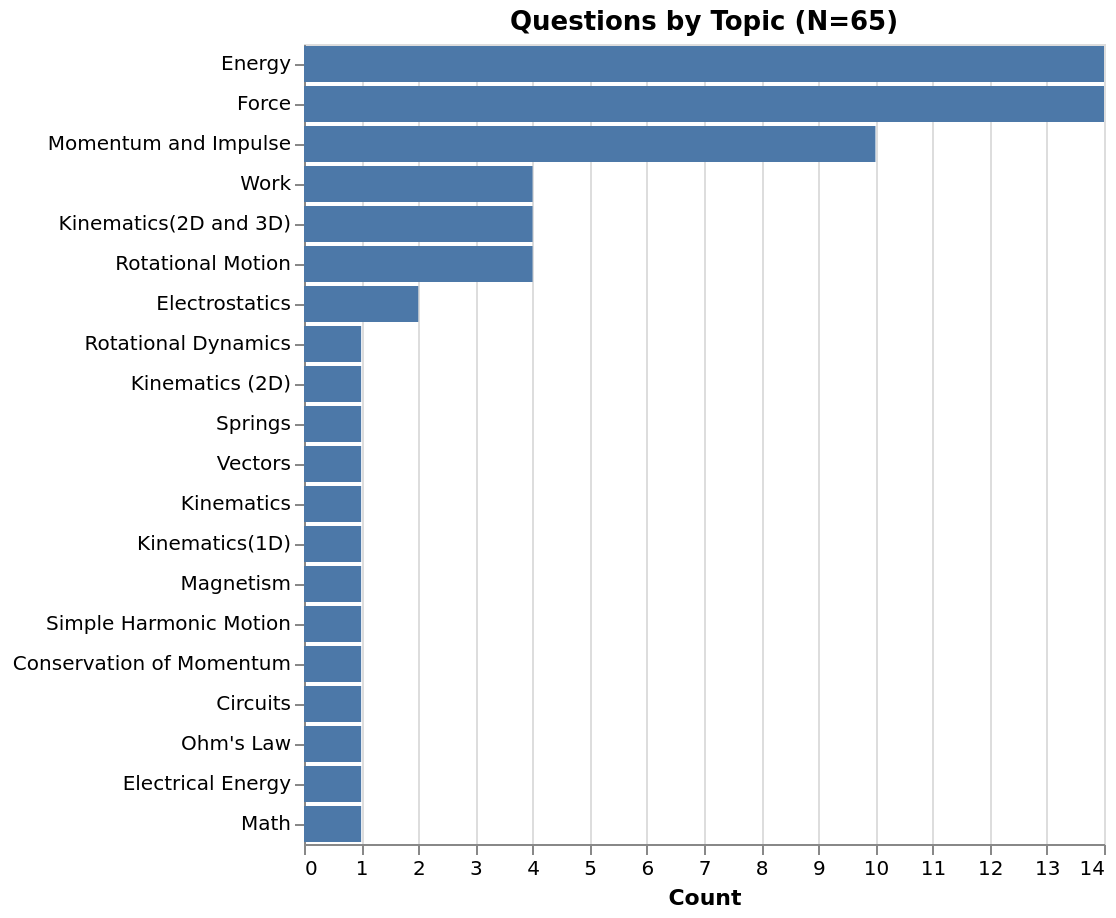
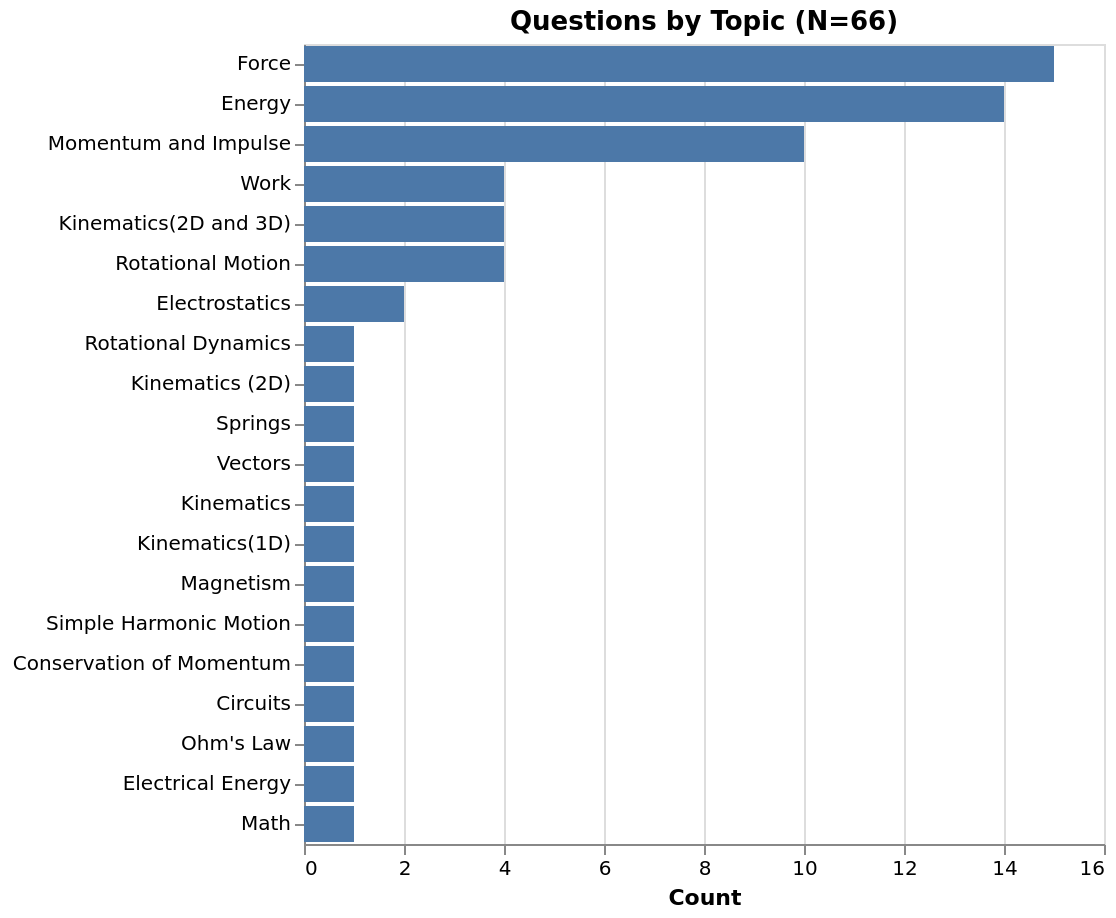
Update TOC via GH Action

diff --git a/content/index.md b/content/index.md
@@ -1,0 +1,71 @@
+# Question Index 
+ 
+ 
+ | Question | Public HTML | Public MD | Instructor MD | PL |
+| --------- | --------- | --------- | --------- | --------- |
+1 |  [Q 1](https://firas.moosvi.com/oer/physicsbank/content/content/public/002.Physics%20in%20General/Topic%20Outcome/test/test.html)| [Q 1](https://github.com/open-resources/physics_bank/blob/main/content/content/public/002.Physics%20in%20General/Topic%20Outcome/test/test.md) | [Q 1](https://github.com/open-resources/instructor_physics_bank/blob/main/output/content/instructor/002.Physics%20in%20General/Topic%20Outcome/test/test.md) | [TBD]() | 
+2 |  [Q 2](https://firas.moosvi.com/oer/physicsbank/content/content/public/008.Energy/Kinetic%20Energy/KE_testmass/KE_testmass.html)| [Q 2](https://github.com/open-resources/physics_bank/blob/main/content/content/public/008.Energy/Kinetic%20Energy/KE_testmass/KE_testmass.md) | [Q 2](https://github.com/open-resources/instructor_physics_bank/blob/main/output/content/instructor/008.Energy/Kinetic%20Energy/KE_testmass/KE_testmass.md) | [TBD]() | 
+3 |  [Q 3](https://firas.moosvi.com/oer/physicsbank/content/content/public/008.Energy/Kinetic%20Energy/KE_energy_momentum/KE_energy_momentum.html)| [Q 3](https://github.com/open-resources/physics_bank/blob/main/content/content/public/008.Energy/Kinetic%20Energy/KE_energy_momentum/KE_energy_momentum.md) | [Q 3](https://github.com/open-resources/instructor_physics_bank/blob/main/output/content/instructor/008.Energy/Kinetic%20Energy/KE_energy_momentum/KE_energy_momentum.md) | [TBD]() | 
+4 |  [Q 4](https://firas.moosvi.com/oer/physicsbank/content/content/public/008.Energy/Potential%20Energy/Collision%20of%20cart%20with%20spring/Collision%20of%20cart%20with%20spring.html)| [Q 4](https://github.com/open-resources/physics_bank/blob/main/content/content/public/008.Energy/Potential%20Energy/Collision%20of%20cart%20with%20spring/Collision%20of%20cart%20with%20spring.md) | [Q 4](https://github.com/open-resources/instructor_physics_bank/blob/main/output/content/instructor/008.Energy/Potential%20Energy/Collision%20of%20cart%20with%20spring/Collision%20of%20cart%20with%20spring.md) | [TBD]() | 
+5 |  [Q 5](https://firas.moosvi.com/oer/physicsbank/content/content/public/008.Energy/Topic%20Outcome/force_vs_position/force_vs_position.html)| [Q 5](https://github.com/open-resources/physics_bank/blob/main/content/content/public/008.Energy/Topic%20Outcome/force_vs_position/force_vs_position.md) | [Q 5](https://github.com/open-resources/instructor_physics_bank/blob/main/output/content/instructor/008.Energy/Topic%20Outcome/force_vs_position/force_vs_position.md) | [TBD]() | 
+6 |  [Q 6](https://firas.moosvi.com/oer/physicsbank/content/content/public/008.Energy/Topic%20Outcome/frictionless_track/frictionless_track.html)| [Q 6](https://github.com/open-resources/physics_bank/blob/main/content/content/public/008.Energy/Topic%20Outcome/frictionless_track/frictionless_track.md) | [Q 6](https://github.com/open-resources/instructor_physics_bank/blob/main/output/content/instructor/008.Energy/Topic%20Outcome/frictionless_track/frictionless_track.md) | [TBD]() | 
+7 |  [Q 7](https://firas.moosvi.com/oer/physicsbank/content/content/public/008.Energy/Topic%20Outcome/spring_oscillations/spring_oscillations.html)| [Q 7](https://github.com/open-resources/physics_bank/blob/main/content/content/public/008.Energy/Topic%20Outcome/spring_oscillations/spring_oscillations.md) | [Q 7](https://github.com/open-resources/instructor_physics_bank/blob/main/output/content/instructor/008.Energy/Topic%20Outcome/spring_oscillations/spring_oscillations.md) | [TBD]() | 
+8 |  [Q 8](https://firas.moosvi.com/oer/physicsbank/content/content/public/008.Energy/Conservation%20of%20Energy/dissipative_process/dissipative_process.html)| [Q 8](https://github.com/open-resources/physics_bank/blob/main/content/content/public/008.Energy/Conservation%20of%20Energy/dissipative_process/dissipative_process.md) | [Q 8](https://github.com/open-resources/instructor_physics_bank/blob/main/output/content/instructor/008.Energy/Conservation%20of%20Energy/dissipative_process/dissipative_process.md) | [TBD]() | 
+9 |  [Q 9](https://firas.moosvi.com/oer/physicsbank/content/content/public/008.Energy/Conservation%20of%20Energy/Energy%20lost%20to%20air%20friction/energy_lost_air_friction.html)| [Q 9](https://github.com/open-resources/physics_bank/blob/main/content/content/public/008.Energy/Conservation%20of%20Energy/Energy%20lost%20to%20air%20friction/energy_lost_air_friction.md) | [Q 9](https://github.com/open-resources/instructor_physics_bank/blob/main/output/content/instructor/008.Energy/Conservation%20of%20Energy/Energy%20lost%20to%20air%20friction/energy_lost_air_friction.md) | [TBD]() | 
+10 |  [Q 10](https://firas.moosvi.com/oer/physicsbank/content/content/public/008.Energy/Conservation%20of%20Energy/ball_race/2012Final_q3.html)| [Q 10](https://github.com/open-resources/physics_bank/blob/main/content/content/public/008.Energy/Conservation%20of%20Energy/ball_race/2012Final_q3.md) | [Q 10](https://github.com/open-resources/instructor_physics_bank/blob/main/output/content/instructor/008.Energy/Conservation%20of%20Energy/ball_race/2012Final_q3.md) | [TBD]() | 
+11 |  [Q 11](https://firas.moosvi.com/oer/physicsbank/content/content/public/008.Energy/Conservation%20of%20Energy/Physics%20of%20Roller%20Coasters/Physics%20of%20Roller%20Coasters.html)| [Q 11](https://github.com/open-resources/physics_bank/blob/main/content/content/public/008.Energy/Conservation%20of%20Energy/Physics%20of%20Roller%20Coasters/Physics%20of%20Roller%20Coasters.md) | [Q 11](https://github.com/open-resources/instructor_physics_bank/blob/main/output/content/instructor/008.Energy/Conservation%20of%20Energy/Physics%20of%20Roller%20Coasters/Physics%20of%20Roller%20Coasters.md) | [TBD]() | 
+12 |  [Q 12](https://firas.moosvi.com/oer/physicsbank/content/content/public/008.Energy/Conservation%20of%20Energy/Cut%20The%20Rope/Cut%20The%20Rope.html)| [Q 12](https://github.com/open-resources/physics_bank/blob/main/content/content/public/008.Energy/Conservation%20of%20Energy/Cut%20The%20Rope/Cut%20The%20Rope.md) | [Q 12](https://github.com/open-resources/instructor_physics_bank/blob/main/output/content/instructor/008.Energy/Conservation%20of%20Energy/Cut%20The%20Rope/Cut%20The%20Rope.md) | [TBD]() | 
+13 |  [Q 13](https://firas.moosvi.com/oer/physicsbank/content/content/public/008.Energy/Conservation%20of%20Energy/Falling%20bucket/Falling%20bucket.html)| [Q 13](https://github.com/open-resources/physics_bank/blob/main/content/content/public/008.Energy/Conservation%20of%20Energy/Falling%20bucket/Falling%20bucket.md) | [Q 13](https://github.com/open-resources/instructor_physics_bank/blob/main/output/content/instructor/008.Energy/Conservation%20of%20Energy/Falling%20bucket/Falling%20bucket.md) | [TBD]() | 
+14 |  [Q 14](https://firas.moosvi.com/oer/physicsbank/content/content/public/008.Energy/Exploding_Asteroid/Exploding_Asteroid.html)| [Q 14](https://github.com/open-resources/physics_bank/blob/main/content/content/public/008.Energy/Exploding_Asteroid/Exploding_Asteroid.md) | [Q 14](https://github.com/open-resources/instructor_physics_bank/blob/main/output/content/instructor/008.Energy/Exploding_Asteroid/Exploding_Asteroid.md) | [TBD]() | 
+15 |  [Q 15](https://firas.moosvi.com/oer/physicsbank/content/content/public/011.Rotational%20Dynamics/Topic%20Outcome/thread_on_spool/thread_on_spool.html)| [Q 15](https://github.com/open-resources/physics_bank/blob/main/content/content/public/011.Rotational%20Dynamics/Topic%20Outcome/thread_on_spool/thread_on_spool.md) | [Q 15](https://github.com/open-resources/instructor_physics_bank/blob/main/output/content/instructor/011.Rotational%20Dynamics/Topic%20Outcome/thread_on_spool/thread_on_spool.md) | [TBD]() | 
+16 |  [Q 16](https://firas.moosvi.com/oer/physicsbank/content/content/public/005.Force/Topic%20Outcome/Frictionless%20Air%20Track/Frictionless%20Air%20Track.html)| [Q 16](https://github.com/open-resources/physics_bank/blob/main/content/content/public/005.Force/Topic%20Outcome/Frictionless%20Air%20Track/Frictionless%20Air%20Track.md) | [Q 16](https://github.com/open-resources/instructor_physics_bank/blob/main/output/content/instructor/005.Force/Topic%20Outcome/Frictionless%20Air%20Track/Frictionless%20Air%20Track.md) | [TBD]() | 
+17 |  [Q 17](https://firas.moosvi.com/oer/physicsbank/content/content/public/009.Work/Work-Energy%20Theorem/work_frictionless_surface/work_frictionless_surface.html)| [Q 17](https://github.com/open-resources/physics_bank/blob/main/content/content/public/009.Work/Work-Energy%20Theorem/work_frictionless_surface/work_frictionless_surface.md) | [Q 17](https://github.com/open-resources/instructor_physics_bank/blob/main/output/content/instructor/009.Work/Work-Energy%20Theorem/work_frictionless_surface/work_frictionless_surface.md) | [TBD]() | 
+18 |  [Q 18](https://firas.moosvi.com/oer/physicsbank/content/content/public/009.Work/Power/Energy%20Expenditure/Energy%20Expenditure.html)| [Q 18](https://github.com/open-resources/physics_bank/blob/main/content/content/public/009.Work/Power/Energy%20Expenditure/Energy%20Expenditure.md) | [Q 18](https://github.com/open-resources/instructor_physics_bank/blob/main/output/content/instructor/009.Work/Power/Energy%20Expenditure/Energy%20Expenditure.md) | [TBD]() | 
+19 |  [Q 19](https://firas.moosvi.com/oer/physicsbank/content/content/public/009.Work/Work/force_and_displacement/force_and_displacement.html)| [Q 19](https://github.com/open-resources/physics_bank/blob/main/content/content/public/009.Work/Work/force_and_displacement/force_and_displacement.md) | [Q 19](https://github.com/open-resources/instructor_physics_bank/blob/main/output/content/instructor/009.Work/Work/force_and_displacement/force_and_displacement.md) | [TBD]() | 
+20 |  [Q 20](https://firas.moosvi.com/oer/physicsbank/content/content/public/005.Kinematics%282D%20and%203D%29/Relative%20Motion/apples_in_truck/apples_in_truck.html)| [Q 20](https://github.com/open-resources/physics_bank/blob/main/content/content/public/005.Kinematics%282D%20and%203D%29/Relative%20Motion/apples_in_truck/apples_in_truck.md) | [Q 20](https://github.com/open-resources/instructor_physics_bank/blob/main/output/content/instructor/005.Kinematics%282D%20and%203D%29/Relative%20Motion/apples_in_truck/apples_in_truck.md) | [TBD]() | 
+21 |  [Q 21](https://firas.moosvi.com/oer/physicsbank/content/content/public/005.Kinematics%282D%20and%203D%29/Non-Uniform%20Circular%20Motion/Acceleration%20around%20a%20turn/Acceleration%20around%20a%20turn.html)| [Q 21](https://github.com/open-resources/physics_bank/blob/main/content/content/public/005.Kinematics%282D%20and%203D%29/Non-Uniform%20Circular%20Motion/Acceleration%20around%20a%20turn/Acceleration%20around%20a%20turn.md) | [Q 21](https://github.com/open-resources/instructor_physics_bank/blob/main/output/content/instructor/005.Kinematics%282D%20and%203D%29/Non-Uniform%20Circular%20Motion/Acceleration%20around%20a%20turn/Acceleration%20around%20a%20turn.md) | [TBD]() | 
+22 |  [Q 22](https://firas.moosvi.com/oer/physicsbank/content/content/public/005.Kinematics%282D%20and%203D%29/Non-Uniform%20Circular%20Motion/Turning_Car/Turning_car.html)| [Q 22](https://github.com/open-resources/physics_bank/blob/main/content/content/public/005.Kinematics%282D%20and%203D%29/Non-Uniform%20Circular%20Motion/Turning_Car/Turning_car.md) | [Q 22](https://github.com/open-resources/instructor_physics_bank/blob/main/output/content/instructor/005.Kinematics%282D%20and%203D%29/Non-Uniform%20Circular%20Motion/Turning_Car/Turning_car.md) | [TBD]() | 
+23 |  [Q 23](https://firas.moosvi.com/oer/physicsbank/content/content/public/005.Kinematics%282D%20and%203D%29/Projectile%20Motion/ski_jump/ski_jump.html)| [Q 23](https://github.com/open-resources/physics_bank/blob/main/content/content/public/005.Kinematics%282D%20and%203D%29/Projectile%20Motion/ski_jump/ski_jump.md) | [Q 23](https://github.com/open-resources/instructor_physics_bank/blob/main/output/content/instructor/005.Kinematics%282D%20and%203D%29/Projectile%20Motion/ski_jump/ski_jump.md) | [TBD]() | 
+24 |  [Q 24](https://firas.moosvi.com/oer/physicsbank/content/content/public/005.Kinematics%282D%20and%203D%29/Uniform%20Circular%20Motion/centripetal_force/centripetal_force.html)| [Q 24](https://github.com/open-resources/physics_bank/blob/main/content/content/public/005.Kinematics%282D%20and%203D%29/Uniform%20Circular%20Motion/centripetal_force/centripetal_force.md) | [Q 24](https://github.com/open-resources/instructor_physics_bank/blob/main/output/content/instructor/005.Kinematics%282D%20and%203D%29/Uniform%20Circular%20Motion/centripetal_force/centripetal_force.md) | [TBD]() | 
+25 |  [Q 25](https://firas.moosvi.com/oer/physicsbank/content/content/public/005.Kinematics%282D%20and%203D%29/Uniform%20Circular%20Motion/angular_speed/angular_speed.html)| [Q 25](https://github.com/open-resources/physics_bank/blob/main/content/content/public/005.Kinematics%282D%20and%203D%29/Uniform%20Circular%20Motion/angular_speed/angular_speed.md) | [Q 25](https://github.com/open-resources/instructor_physics_bank/blob/main/output/content/instructor/005.Kinematics%282D%20and%203D%29/Uniform%20Circular%20Motion/angular_speed/angular_speed.md) | [TBD]() | 
+26 |  [Q 26](https://firas.moosvi.com/oer/physicsbank/content/content/public/014.Elasticity/Topic%20Outcome/Identical%20Mass-Springs%20with%20different%20Displacement/Identical%20Mass-Springs%20with%20different%20Displacement.html)| [Q 26](https://github.com/open-resources/physics_bank/blob/main/content/content/public/014.Elasticity/Topic%20Outcome/Identical%20Mass-Springs%20with%20different%20Displacement/Identical%20Mass-Springs%20with%20different%20Displacement.md) | [Q 26](https://github.com/open-resources/instructor_physics_bank/blob/main/output/content/instructor/014.Elasticity/Topic%20Outcome/Identical%20Mass-Springs%20with%20different%20Displacement/Identical%20Mass-Springs%20with%20different%20Displacement.md) | [TBD]() | 
+27 |  [Q 27](https://firas.moosvi.com/oer/physicsbank/content/content/public/018.Electrostatics/Electric%20Potential/Particle%20between%20charged%20plates/Particle%20between%20charged%20plates.html)| [Q 27](https://github.com/open-resources/physics_bank/blob/main/content/content/public/018.Electrostatics/Electric%20Potential/Particle%20between%20charged%20plates/Particle%20between%20charged%20plates.md) | [Q 27](https://github.com/open-resources/instructor_physics_bank/blob/main/output/content/instructor/018.Electrostatics/Electric%20Potential/Particle%20between%20charged%20plates/Particle%20between%20charged%20plates.md) | [TBD]() | 
+28 |  [Q 28](https://firas.moosvi.com/oer/physicsbank/content/content/public/003.Vectors/Topic%20Outcome/Choose_all_Vectors_Scalars/Choose_all_Vectors_Scalars.html)| [Q 28](https://github.com/open-resources/physics_bank/blob/main/content/content/public/003.Vectors/Topic%20Outcome/Choose_all_Vectors_Scalars/Choose_all_Vectors_Scalars.md) | [Q 28](https://github.com/open-resources/instructor_physics_bank/blob/main/output/content/instructor/003.Vectors/Topic%20Outcome/Choose_all_Vectors_Scalars/Choose_all_Vectors_Scalars.md) | [TBD]() | 
+29 |  [Q 29](https://firas.moosvi.com/oer/physicsbank/content/content/public/004.Kinematics%281D%29/Position/distance_travelled/distance_travelled.html)| [Q 29](https://github.com/open-resources/physics_bank/blob/main/content/content/public/004.Kinematics%281D%29/Position/distance_travelled/distance_travelled.md) | [Q 29](https://github.com/open-resources/instructor_physics_bank/blob/main/output/content/instructor/004.Kinematics%281D%29/Position/distance_travelled/distance_travelled.md) | [TBD]() | 
+30 |  [Q 30](https://firas.moosvi.com/oer/physicsbank/content/content/public/004.Kinematics%281D%29/Motion%20Diagrams/Running_Dog/Running_Dog.html)| [Q 30](https://github.com/open-resources/physics_bank/blob/main/content/content/public/004.Kinematics%281D%29/Motion%20Diagrams/Running_Dog/Running_Dog.md) | [Q 30](https://github.com/open-resources/instructor_physics_bank/blob/main/output/content/instructor/004.Kinematics%281D%29/Motion%20Diagrams/Running_Dog/Running_Dog.md) | [TBD]() | 
+31 |  [Q 31](https://firas.moosvi.com/oer/physicsbank/content/content/public/010.Rotational%20Motion/Rotational%20Energy/Inertia%20of%20T-shaped%20rod/Inertia%20of%20T-shaped%20rod.html)| [Q 31](https://github.com/open-resources/physics_bank/blob/main/content/content/public/010.Rotational%20Motion/Rotational%20Energy/Inertia%20of%20T-shaped%20rod/Inertia%20of%20T-shaped%20rod.md) | [Q 31](https://github.com/open-resources/instructor_physics_bank/blob/main/output/content/instructor/010.Rotational%20Motion/Rotational%20Energy/Inertia%20of%20T-shaped%20rod/Inertia%20of%20T-shaped%20rod.md) | [TBD]() | 
+32 |  [Q 32](https://firas.moosvi.com/oer/physicsbank/content/content/public/010.Rotational%20Motion/Rolling%20Motion/Rolling_without_slipping/Rolling_without_slipping.html)| [Q 32](https://github.com/open-resources/physics_bank/blob/main/content/content/public/010.Rotational%20Motion/Rolling%20Motion/Rolling_without_slipping/Rolling_without_slipping.md) | [Q 32](https://github.com/open-resources/instructor_physics_bank/blob/main/output/content/instructor/010.Rotational%20Motion/Rolling%20Motion/Rolling_without_slipping/Rolling_without_slipping.md) | [TBD]() | 
+33 |  [Q 33](https://firas.moosvi.com/oer/physicsbank/content/content/public/010.Rotational%20Motion/Topic%20Outcome/Wheel_of_fortune/Wheel_of_fortune.html)| [Q 33](https://github.com/open-resources/physics_bank/blob/main/content/content/public/010.Rotational%20Motion/Topic%20Outcome/Wheel_of_fortune/Wheel_of_fortune.md) | [Q 33](https://github.com/open-resources/instructor_physics_bank/blob/main/output/content/instructor/010.Rotational%20Motion/Topic%20Outcome/Wheel_of_fortune/Wheel_of_fortune.md) | [TBD]() | 
+34 |  [Q 34](https://firas.moosvi.com/oer/physicsbank/content/content/public/010.Rotational%20Motion/Topic%20Outcome/Rotational%20Displacement%20of%20Tires/Rotational%20Displacement%20of%20tires.html)| [Q 34](https://github.com/open-resources/physics_bank/blob/main/content/content/public/010.Rotational%20Motion/Topic%20Outcome/Rotational%20Displacement%20of%20Tires/Rotational%20Displacement%20of%20tires.md) | [Q 34](https://github.com/open-resources/instructor_physics_bank/blob/main/output/content/instructor/010.Rotational%20Motion/Topic%20Outcome/Rotational%20Displacement%20of%20Tires/Rotational%20Displacement%20of%20tires.md) | [TBD]() | 
+35 |  [Q 35](https://firas.moosvi.com/oer/physicsbank/content/content/public/019.Magnetism/Magnetic%20Force/Electron%20in%20a%20Solenoid/Electron%20in%20a%20Solenoid.html)| [Q 35](https://github.com/open-resources/physics_bank/blob/main/content/content/public/019.Magnetism/Magnetic%20Force/Electron%20in%20a%20Solenoid/Electron%20in%20a%20Solenoid.md) | [Q 35](https://github.com/open-resources/instructor_physics_bank/blob/main/output/content/instructor/019.Magnetism/Magnetic%20Force/Electron%20in%20a%20Solenoid/Electron%20in%20a%20Solenoid.md) | [TBD]() | 
+36 |  [Q 36](https://firas.moosvi.com/oer/physicsbank/content/content/public/006.Force/Friction/Frictional%20Force%20between%20tires%20and%20road/Frictional%20Force%20between%20tires%20and%20road.html)| [Q 36](https://github.com/open-resources/physics_bank/blob/main/content/content/public/006.Force/Friction/Frictional%20Force%20between%20tires%20and%20road/Frictional%20Force%20between%20tires%20and%20road.md) | [Q 36](https://github.com/open-resources/instructor_physics_bank/blob/main/output/content/instructor/006.Force/Friction/Frictional%20Force%20between%20tires%20and%20road/Frictional%20Force%20between%20tires%20and%20road.md) | [TBD]() | 
+37 |  [Q 37](https://firas.moosvi.com/oer/physicsbank/content/content/public/006.Force/Friction/box_in_vehicle/box_in_vehicle.html)| [Q 37](https://github.com/open-resources/physics_bank/blob/main/content/content/public/006.Force/Friction/box_in_vehicle/box_in_vehicle.md) | [Q 37](https://github.com/open-resources/instructor_physics_bank/blob/main/output/content/instructor/006.Force/Friction/box_in_vehicle/box_in_vehicle.md) | [TBD]() | 
+38 |  [Q 38](https://firas.moosvi.com/oer/physicsbank/content/content/public/006.Force/Friction/spring_on_ramp/spring_on_ramp.html)| [Q 38](https://github.com/open-resources/physics_bank/blob/main/content/content/public/006.Force/Friction/spring_on_ramp/spring_on_ramp.md) | [Q 38](https://github.com/open-resources/instructor_physics_bank/blob/main/output/content/instructor/006.Force/Friction/spring_on_ramp/spring_on_ramp.md) | [TBD]() | 
+39 |  [Q 39](https://firas.moosvi.com/oer/physicsbank/content/content/public/006.Force/Dynamics%20of%20Circular%20Motion/object_on_string/object_on_string.html)| [Q 39](https://github.com/open-resources/physics_bank/blob/main/content/content/public/006.Force/Dynamics%20of%20Circular%20Motion/object_on_string/object_on_string.md) | [Q 39](https://github.com/open-resources/instructor_physics_bank/blob/main/output/content/instructor/006.Force/Dynamics%20of%20Circular%20Motion/object_on_string/object_on_string.md) | [TBD]() | 
+40 |  [Q 40](https://firas.moosvi.com/oer/physicsbank/content/content/public/006.Force/Topic%20Outcome/The%20max%20acceleration%20without%20slipping/The%20max%20acceleration%20without%20slipping.html)| [Q 40](https://github.com/open-resources/physics_bank/blob/main/content/content/public/006.Force/Topic%20Outcome/The%20max%20acceleration%20without%20slipping/The%20max%20acceleration%20without%20slipping.md) | [Q 40](https://github.com/open-resources/instructor_physics_bank/blob/main/output/content/instructor/006.Force/Topic%20Outcome/The%20max%20acceleration%20without%20slipping/The%20max%20acceleration%20without%20slipping.md) | [TBD]() | 
+41 |  [Q 41](https://firas.moosvi.com/oer/physicsbank/content/content/public/006.Force/Topic%20Outcome/ropes_and_blocks/ropes_and_blocks.html)| [Q 41](https://github.com/open-resources/physics_bank/blob/main/content/content/public/006.Force/Topic%20Outcome/ropes_and_blocks/ropes_and_blocks.md) | [Q 41](https://github.com/open-resources/instructor_physics_bank/blob/main/output/content/instructor/006.Force/Topic%20Outcome/ropes_and_blocks/ropes_and_blocks.md) | [TBD]() | 
+42 |  [Q 42](https://firas.moosvi.com/oer/physicsbank/content/content/public/006.Force/Topic%20Outcome/Rotating%20ball/Rotating%20ball.html)| [Q 42](https://github.com/open-resources/physics_bank/blob/main/content/content/public/006.Force/Topic%20Outcome/Rotating%20ball/Rotating%20ball.md) | [Q 42](https://github.com/open-resources/instructor_physics_bank/blob/main/output/content/instructor/006.Force/Topic%20Outcome/Rotating%20ball/Rotating%20ball.md) | [TBD]() | 
+43 |  [Q 43](https://firas.moosvi.com/oer/physicsbank/content/content/public/006.Force/Topic%20Outcome/velocity_netforce/velocity_netforce.html)| [Q 43](https://github.com/open-resources/physics_bank/blob/main/content/content/public/006.Force/Topic%20Outcome/velocity_netforce/velocity_netforce.md) | [Q 43](https://github.com/open-resources/instructor_physics_bank/blob/main/output/content/instructor/006.Force/Topic%20Outcome/velocity_netforce/velocity_netforce.md) | [TBD]() | 
+44 |  [Q 44](https://firas.moosvi.com/oer/physicsbank/content/content/public/006.Force/Topic%20Outcome/Elevator%20Movement%20Direction/Elevator%20Movement%20Direction.html)| [Q 44](https://github.com/open-resources/physics_bank/blob/main/content/content/public/006.Force/Topic%20Outcome/Elevator%20Movement%20Direction/Elevator%20Movement%20Direction.md) | [Q 44](https://github.com/open-resources/instructor_physics_bank/blob/main/output/content/instructor/006.Force/Topic%20Outcome/Elevator%20Movement%20Direction/Elevator%20Movement%20Direction.md) | [TBD]() | 
+45 |  [Q 45](https://firas.moosvi.com/oer/physicsbank/content/content/public/006.Force/Topic%20Outcome/spring_on_incline/spring_on_incline.html)| [Q 45](https://github.com/open-resources/physics_bank/blob/main/content/content/public/006.Force/Topic%20Outcome/spring_on_incline/spring_on_incline.md) | [Q 45](https://github.com/open-resources/instructor_physics_bank/blob/main/output/content/instructor/006.Force/Topic%20Outcome/spring_on_incline/spring_on_incline.md) | [TBD]() | 
+46 |  [Q 46](https://firas.moosvi.com/oer/physicsbank/content/content/public/006.Force/Equilibrium/Two%20blocks%20connected%20by%20a%20string/Two%20Blocks%20Connected%20by%20a%20String.html)| [Q 46](https://github.com/open-resources/physics_bank/blob/main/content/content/public/006.Force/Equilibrium/Two%20blocks%20connected%20by%20a%20string/Two%20Blocks%20Connected%20by%20a%20String.md) | [Q 46](https://github.com/open-resources/instructor_physics_bank/blob/main/output/content/instructor/006.Force/Equilibrium/Two%20blocks%20connected%20by%20a%20string/Two%20Blocks%20Connected%20by%20a%20String.md) | [TBD]() | 
+47 |  [Q 47](https://firas.moosvi.com/oer/physicsbank/content/content/public/006.Force/Free%20Body%20Diagrams/pulley_on_truck/pulley_on_truck.html)| [Q 47](https://github.com/open-resources/physics_bank/blob/main/content/content/public/006.Force/Free%20Body%20Diagrams/pulley_on_truck/pulley_on_truck.md) | [Q 47](https://github.com/open-resources/instructor_physics_bank/blob/main/output/content/instructor/006.Force/Free%20Body%20Diagrams/pulley_on_truck/pulley_on_truck.md) | [TBD]() | 
+48 |  [Q 48](https://firas.moosvi.com/oer/physicsbank/content/content/public/006.Force/Newton%27s%20Third%20Law/Force%20Vectors/force_vectors.html)| [Q 48](https://github.com/open-resources/physics_bank/blob/main/content/content/public/006.Force/Newton%27s%20Third%20Law/Force%20Vectors/force_vectors.md) | [Q 48](https://github.com/open-resources/instructor_physics_bank/blob/main/output/content/instructor/006.Force/Newton%27s%20Third%20Law/Force%20Vectors/force_vectors.md) | [TBD]() | 
+49 |  [Q 49](https://firas.moosvi.com/oer/physicsbank/content/content/public/006.Force/Springs/Bungee_jumping/bungee_jumping.html)| [Q 49](https://github.com/open-resources/physics_bank/blob/main/content/content/public/006.Force/Springs/Bungee_jumping/bungee_jumping.md) | [Q 49](https://github.com/open-resources/instructor_physics_bank/blob/main/output/content/instructor/006.Force/Springs/Bungee_jumping/bungee_jumping.md) | [TBD]() | 
+50 |  [Q 50](https://firas.moosvi.com/oer/physicsbank/content/content/public/007.Momentum%20and%20Impulse/Impulse/Bouncing_Ball/Bouncing_Ball.html)| [Q 50](https://github.com/open-resources/physics_bank/blob/main/content/content/public/007.Momentum%20and%20Impulse/Impulse/Bouncing_Ball/Bouncing_Ball.md) | [Q 50](https://github.com/open-resources/instructor_physics_bank/blob/main/output/content/instructor/007.Momentum%20and%20Impulse/Impulse/Bouncing_Ball/Bouncing_Ball.md) | [TBD]() | 
+51 |  [Q 51](https://firas.moosvi.com/oer/physicsbank/content/content/public/007.Momentum%20and%20Impulse/Impulse/airbag_collision/airbag_collision.html)| [Q 51](https://github.com/open-resources/physics_bank/blob/main/content/content/public/007.Momentum%20and%20Impulse/Impulse/airbag_collision/airbag_collision.md) | [Q 51](https://github.com/open-resources/instructor_physics_bank/blob/main/output/content/instructor/007.Momentum%20and%20Impulse/Impulse/airbag_collision/airbag_collision.md) | [TBD]() | 
+52 |  [Q 52](https://firas.moosvi.com/oer/physicsbank/content/content/public/007.Momentum%20and%20Impulse/2D%20Collisions/light_heavy_collision/light_heavy_collision.html)| [Q 52](https://github.com/open-resources/physics_bank/blob/main/content/content/public/007.Momentum%20and%20Impulse/2D%20Collisions/light_heavy_collision/light_heavy_collision.md) | [Q 52](https://github.com/open-resources/instructor_physics_bank/blob/main/output/content/instructor/007.Momentum%20and%20Impulse/2D%20Collisions/light_heavy_collision/light_heavy_collision.md) | [TBD]() | 
+53 |  [Q 53](https://firas.moosvi.com/oer/physicsbank/content/content/public/007.Momentum%20and%20Impulse/2D%20Collisions/billiards_collision/billiards_collision.html)| [Q 53](https://github.com/open-resources/physics_bank/blob/main/content/content/public/007.Momentum%20and%20Impulse/2D%20Collisions/billiards_collision/billiards_collision.md) | [Q 53](https://github.com/open-resources/instructor_physics_bank/blob/main/output/content/instructor/007.Momentum%20and%20Impulse/2D%20Collisions/billiards_collision/billiards_collision.md) | [TBD]() | 
+54 |  [Q 54](https://firas.moosvi.com/oer/physicsbank/content/content/public/007.Momentum%20and%20Impulse/Conservation%20of%20Momentum/System_Open_or_Closed/System_Open_or_Closed.html)| [Q 54](https://github.com/open-resources/physics_bank/blob/main/content/content/public/007.Momentum%20and%20Impulse/Conservation%20of%20Momentum/System_Open_or_Closed/System_Open_or_Closed.md) | [Q 54](https://github.com/open-resources/instructor_physics_bank/blob/main/output/content/instructor/007.Momentum%20and%20Impulse/Conservation%20of%20Momentum/System_Open_or_Closed/System_Open_or_Closed.md) | [TBD]() | 
+55 |  [Q 55](https://firas.moosvi.com/oer/physicsbank/content/content/public/007.Momentum%20and%20Impulse/Conservation%20of%20Momentum/mass_spring_collision/mass_spring_collision.html)| [Q 55](https://github.com/open-resources/physics_bank/blob/main/content/content/public/007.Momentum%20and%20Impulse/Conservation%20of%20Momentum/mass_spring_collision/mass_spring_collision.md) | [Q 55](https://github.com/open-resources/instructor_physics_bank/blob/main/output/content/instructor/007.Momentum%20and%20Impulse/Conservation%20of%20Momentum/mass_spring_collision/mass_spring_collision.md) | [TBD]() | 
+56 |  [Q 56](https://firas.moosvi.com/oer/physicsbank/content/content/public/007.Momentum%20and%20Impulse/Conservation%20of%20Momentum/Explosions_and_Velocity/Explosions_and_Velocity.html)| [Q 56](https://github.com/open-resources/physics_bank/blob/main/content/content/public/007.Momentum%20and%20Impulse/Conservation%20of%20Momentum/Explosions_and_Velocity/Explosions_and_Velocity.md) | [Q 56](https://github.com/open-resources/instructor_physics_bank/blob/main/output/content/instructor/007.Momentum%20and%20Impulse/Conservation%20of%20Momentum/Explosions_and_Velocity/Explosions_and_Velocity.md) | [TBD]() | 
+57 |  [Q 57](https://firas.moosvi.com/oer/physicsbank/content/content/public/007.Momentum%20and%20Impulse/Conservation%20of%20Momentum/Raindrops_Collision/raindrops_collision.html)| [Q 57](https://github.com/open-resources/physics_bank/blob/main/content/content/public/007.Momentum%20and%20Impulse/Conservation%20of%20Momentum/Raindrops_Collision/raindrops_collision.md) | [Q 57](https://github.com/open-resources/instructor_physics_bank/blob/main/output/content/instructor/007.Momentum%20and%20Impulse/Conservation%20of%20Momentum/Raindrops_Collision/raindrops_collision.md) | [TBD]() | 
+58 |  [Q 58](https://firas.moosvi.com/oer/physicsbank/content/content/public/007.Momentum%20and%20Impulse/Conservation%20of%20Momentum/Isolated_systems/Isolated_systems.html)| [Q 58](https://github.com/open-resources/physics_bank/blob/main/content/content/public/007.Momentum%20and%20Impulse/Conservation%20of%20Momentum/Isolated_systems/Isolated_systems.md) | [Q 58](https://github.com/open-resources/instructor_physics_bank/blob/main/output/content/instructor/007.Momentum%20and%20Impulse/Conservation%20of%20Momentum/Isolated_systems/Isolated_systems.md) | [TBD]() | 
+59 |  [Q 59](https://firas.moosvi.com/oer/physicsbank/content/content/public/007.Momentum%20and%20Impulse/Momentum/Momentum_and_Inertia/Momentum_and_Inertia.html)| [Q 59](https://github.com/open-resources/physics_bank/blob/main/content/content/public/007.Momentum%20and%20Impulse/Momentum/Momentum_and_Inertia/Momentum_and_Inertia.md) | [Q 59](https://github.com/open-resources/instructor_physics_bank/blob/main/output/content/instructor/007.Momentum%20and%20Impulse/Momentum/Momentum_and_Inertia/Momentum_and_Inertia.md) | [TBD]() | 
+60 |  [Q 60](https://firas.moosvi.com/oer/physicsbank/content/content/public/007.Momentum%20and%20Impulse/Momentum/Rock_Powered_Rocket/Rock_Powered_Rocket.html)| [Q 60](https://github.com/open-resources/physics_bank/blob/main/content/content/public/007.Momentum%20and%20Impulse/Momentum/Rock_Powered_Rocket/Rock_Powered_Rocket.md) | [Q 60](https://github.com/open-resources/instructor_physics_bank/blob/main/output/content/instructor/007.Momentum%20and%20Impulse/Momentum/Rock_Powered_Rocket/Rock_Powered_Rocket.md) | [TBD]() | 
+61 |  [Q 61](https://firas.moosvi.com/oer/physicsbank/content/content/public/007.Momentum%20and%20Impulse/Momentum/Dinner_Plate/dinner_plate.html)| [Q 61](https://github.com/open-resources/physics_bank/blob/main/content/content/public/007.Momentum%20and%20Impulse/Momentum/Dinner_Plate/dinner_plate.md) | [Q 61](https://github.com/open-resources/instructor_physics_bank/blob/main/output/content/instructor/007.Momentum%20and%20Impulse/Momentum/Dinner_Plate/dinner_plate.md) | [TBD]() | 
+62 |  [Q 62](https://firas.moosvi.com/oer/physicsbank/content/content/public/021.Circuits/RC%20Circuits/OSUPv2p10_16/OSUPv2p10_16.html)| [Q 62](https://github.com/open-resources/physics_bank/blob/main/content/content/public/021.Circuits/RC%20Circuits/OSUPv2p10_16/OSUPv2p10_16.md) | [Q 62](https://github.com/open-resources/instructor_physics_bank/blob/main/output/content/instructor/021.Circuits/RC%20Circuits/OSUPv2p10_16/OSUPv2p10_16.md) | [TBD]() | 
+63 |  [Q 63](https://firas.moosvi.com/oer/physicsbank/content/content/public/021.Circuits/Ohm%27s%20Law/OSUPv2.9.13/OSUPv2.9.13.html)| [Q 63](https://github.com/open-resources/physics_bank/blob/main/content/content/public/021.Circuits/Ohm%27s%20Law/OSUPv2.9.13/OSUPv2.9.13.md) | [Q 63](https://github.com/open-resources/instructor_physics_bank/blob/main/output/content/instructor/021.Circuits/Ohm%27s%20Law/OSUPv2.9.13/OSUPv2.9.13.md) | [TBD]() | 
+64 |  [Q 64](https://firas.moosvi.com/oer/physicsbank/content/content/public/021.Circuits/Electrical%20Energy/OSUPv2.9.16/OSUPv2.9.16.html)| [Q 64](https://github.com/open-resources/physics_bank/blob/main/content/content/public/021.Circuits/Electrical%20Energy/OSUPv2.9.16/OSUPv2.9.16.md) | [Q 64](https://github.com/open-resources/instructor_physics_bank/blob/main/output/content/instructor/021.Circuits/Electrical%20Energy/OSUPv2.9.16/OSUPv2.9.16.md) | [TBD]() | 
+65 |  [Q 65](https://firas.moosvi.com/oer/physicsbank/content/content/public/021.Circuits/Current/OSUPv2.9.2/OSUPv2.9.2.html)| [Q 65](https://github.com/open-resources/physics_bank/blob/main/content/content/public/021.Circuits/Current/OSUPv2.9.2/OSUPv2.9.2.md) | [Q 65](https://github.com/open-resources/instructor_physics_bank/blob/main/output/content/instructor/021.Circuits/Current/OSUPv2.9.2/OSUPv2.9.2.md) | [TBD]() | 
+66 |  [Q 66](https://firas.moosvi.com/oer/physicsbank/content/content/public/001.Math/Integrals/Rocket/Rocket.html)| [Q 66](https://github.com/open-resources/physics_bank/blob/main/content/content/public/001.Math/Integrals/Rocket/Rocket.md) | [Q 66](https://github.com/open-resources/instructor_physics_bank/blob/main/output/content/instructor/001.Math/Integrals/Rocket/Rocket.md) | [TBD]() | 
